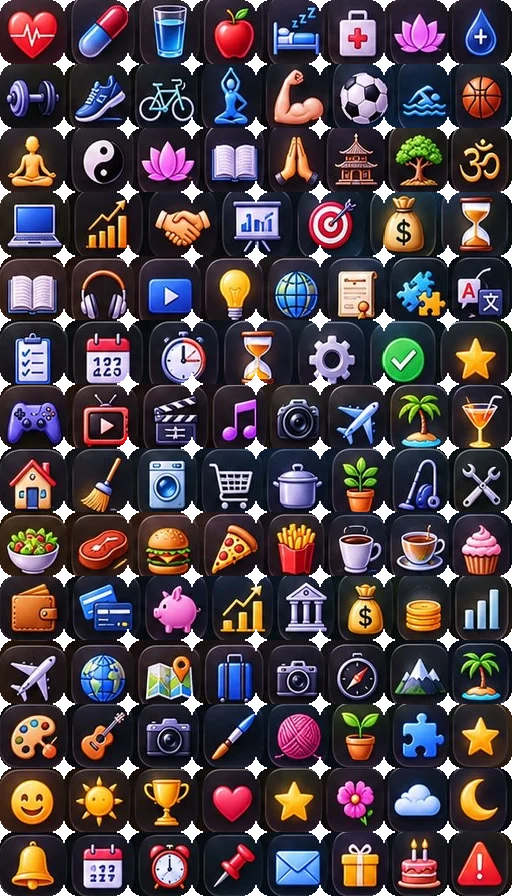
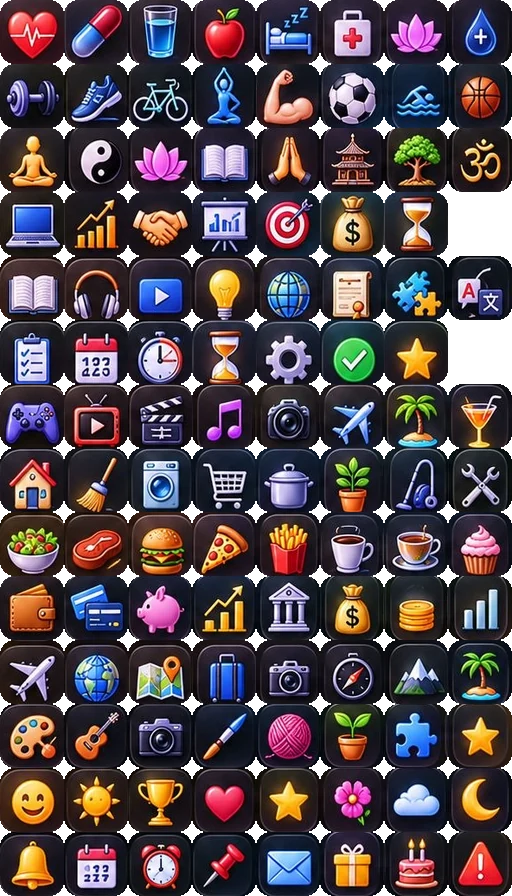
Add files via upload

diff --git a/index.html b/index.html
@@ -126,7 +126,7 @@ const sg=id=>SUG.find(x=>x.id==id);
 const K='habit-tracker-v2';
 let D;try{D=JSON.parse(localStorage.getItem(K))}catch(e){}
 if(!D){D={theme:0,lang:(navigator.language||'en').slice(0,2),habits:['water','workout','book','meditate','food'].map(k=>({k,log:{}})),goals:[]}}
-let tab='home',sel=null,edit=false,sugF='all',wk=0,sd=null,gp=[],pk=null,ni='sp:46',ng='sp:29';
+let tab='home',sel=null,edit=false,sugF='all',wk=0,sd=null,gp=[],pk=null,ni='sp:46',ng='sp:28';
 const LANGS=[['ru','Русский'],['en','English'],['zh','中文'],['es','Español'],['hi','हिन्दी'],['ar','العربية'],['fr','Français'],['pt','Português'],['de','Deutsch'],['ja','日本語'],['tr','Türkçe'],['uk','Українська'],['ko','한국어'],['it','Italiano']];
 if(!LANGS.some(l=>l[0]==D.lang))D.lang='en';
 const KEYS='app today habits home stats goals prof addH addG noH noG left streak days best week theme lang backup save load del replace bad sugBtn sugTitle all rel n0 n1 n2 n3 n4 dw dk db dm df subAdd done missed weekSum pickIcon'.split(' ');
@@ -148,7 +148,7 @@ function mk(s){const p=s.split('|'),o={};KEYS.forEach((k,i)=>o[k]=p[i]);o.m=[o.n
 Object.keys(P).forEach(k=>L[k]=mk(P[k]));
 L.ru.subAdd='Новая подцель…';L.ru.done='Сделано';L.ru.missed='Не сделано';L.ru.weekSum='Итог недели';L.ru.pickIcon='Выбери иконку';
 L.en.subAdd='New sub-item…';L.en.done='Done';L.en.missed='Not done';L.en.weekSum='Week summary';L.en.pickIcon='Pick an icon';
-const ICONS=[[['Здоровье','Health'],Array.from({length:8},(_,j)=>'sp:'+(0*8+j))],[['Физическое развитие','Fitness'],Array.from({length:8},(_,j)=>'sp:'+(1*8+j))],[['Духовное развитие','Spirit'],Array.from({length:8},(_,j)=>'sp:'+(2*8+j))],[['Работа и бизнес','Work'],Array.from({length:8},(_,j)=>'sp:'+(3*8+j))],[['Обучение и знания','Learning'],Array.from({length:8},(_,j)=>'sp:'+(4*8+j))],[['Продуктивность','Productivity'],Array.from({length:8},(_,j)=>'sp:'+(5*8+j))],[['Отдых и развлечения','Leisure'],Array.from({length:8},(_,j)=>'sp:'+(6*8+j))],[['Дом и быт','Home'],Array.from({length:8},(_,j)=>'sp:'+(7*8+j))],[['Питание','Food'],Array.from({length:8},(_,j)=>'sp:'+(8*8+j))],[['Финансы','Finance'],Array.from({length:8},(_,j)=>'sp:'+(9*8+j))],[['Путешествия','Travel'],Array.from({length:8},(_,j)=>'sp:'+(10*8+j))],[['Творчество и хобби','Creativity'],Array.from({length:8},(_,j)=>'sp:'+(11*8+j))],[['Эмоции и настроение','Mood'],Array.from({length:8},(_,j)=>'sp:'+(12*8+j))],[['Напоминания и важное','Reminders'],Array.from({length:8},(_,j)=>'sp:'+(13*8+j))]];
+const ICONS=[[['Здоровье','Health'],Array.from({length:8},(_,j)=>'sp:'+(0*8+j))],[['Физическое развитие','Fitness'],Array.from({length:8},(_,j)=>'sp:'+(1*8+j))],[['Духовное развитие','Spirit'],Array.from({length:8},(_,j)=>'sp:'+(2*8+j))],[['Работа и бизнес','Work'],Array.from({length:7},(_,j)=>'sp:'+(3*8+j))],[['Обучение и знания','Learning'],Array.from({length:8},(_,j)=>'sp:'+(4*8+j))],[['Продуктивность','Productivity'],Array.from({length:7},(_,j)=>'sp:'+(5*8+j))],[['Отдых и развлечения','Leisure'],Array.from({length:8},(_,j)=>'sp:'+(6*8+j))],[['Дом и быт','Home'],Array.from({length:8},(_,j)=>'sp:'+(7*8+j))],[['Питание','Food'],Array.from({length:8},(_,j)=>'sp:'+(8*8+j))],[['Финансы','Finance'],Array.from({length:8},(_,j)=>'sp:'+(9*8+j))],[['Путешествия','Travel'],Array.from({length:8},(_,j)=>'sp:'+(10*8+j))],[['Творчество и хобби','Creativity'],Array.from({length:8},(_,j)=>'sp:'+(11*8+j))],[['Эмоции и настроение','Mood'],Array.from({length:8},(_,j)=>'sp:'+(12*8+j))],[['Напоминания и важное','Reminders'],Array.from({length:8},(_,j)=>'sp:'+(13*8+j))]];
 const T=()=>Object.assign({},L.en,L[D.lang]||{});
 const save=()=>{try{localStorage.setItem(K,JSON.stringify(D))}catch(e){}};
 const z=n=>String(n).padStart(2,'0');
@@ -269,7 +269,7 @@ app.addEventListener('click',e=>{
 app.addEventListener('submit',e=>{
   e.preventDefault();const f=e.target,v=f.querySelector('input').value.trim();if(!v)return;
   if(f.dataset.f=='h'){D.habits.push({name:v,i:ni,log:{},c:key(new Date())});ni='sp:46'}
-  else{gl().push({name:v,d:false,i:ng,c:[]});ng='sp:29'}
+  else{gl().push({name:v,d:false,i:ng,c:[]});ng='sp:28'}
   save();render();
 });
 app.addEventListener('change',e=>{
